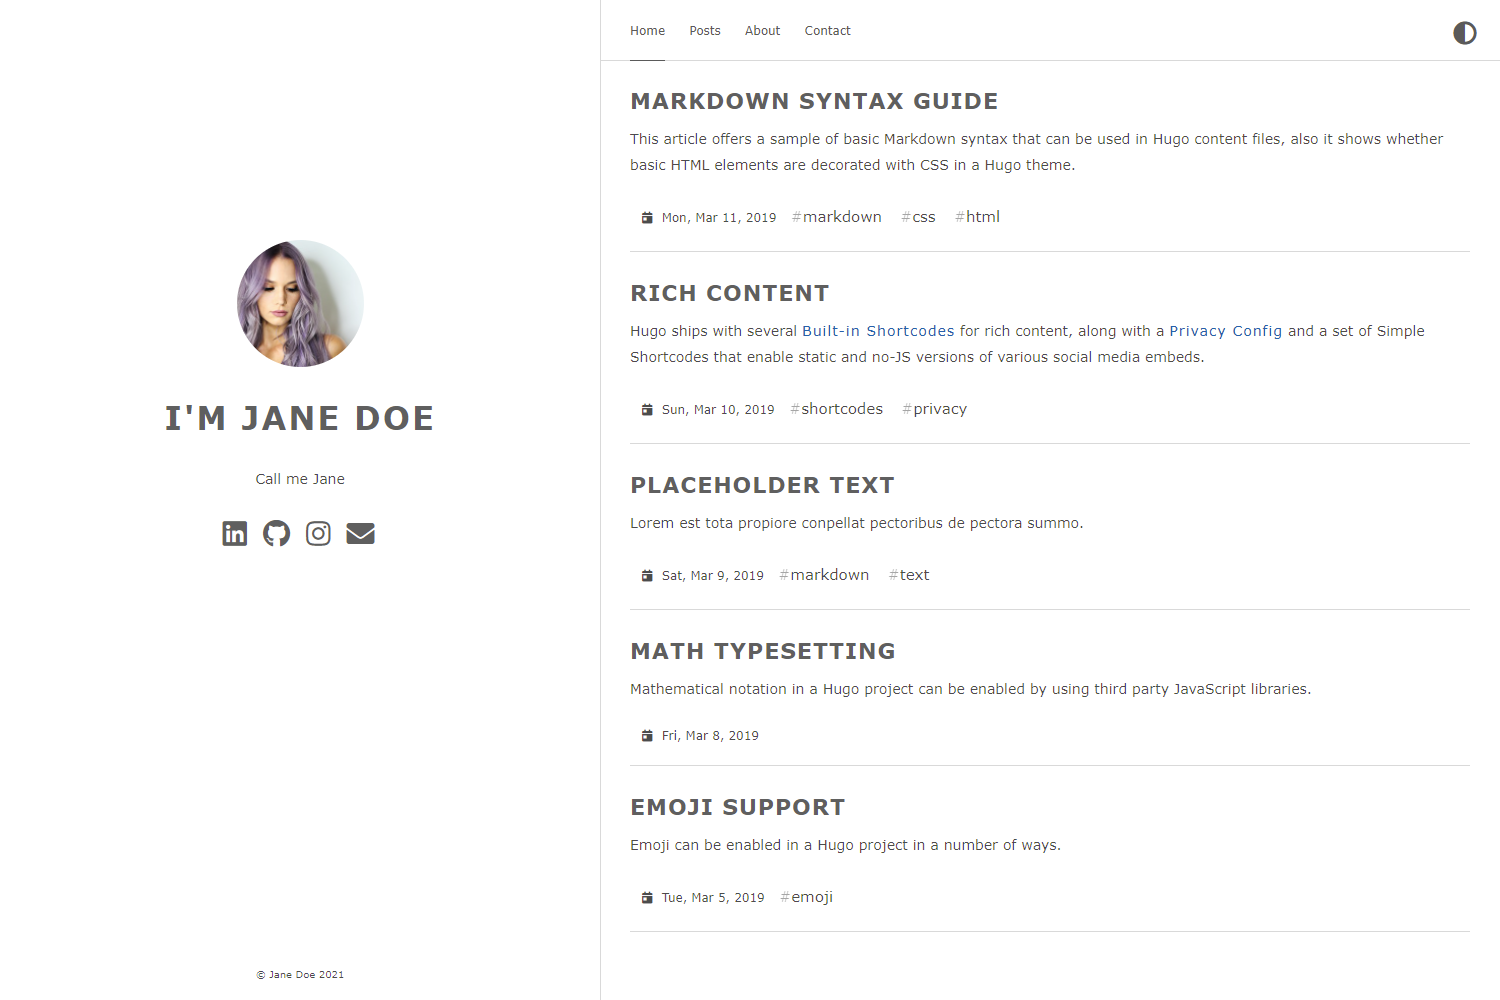
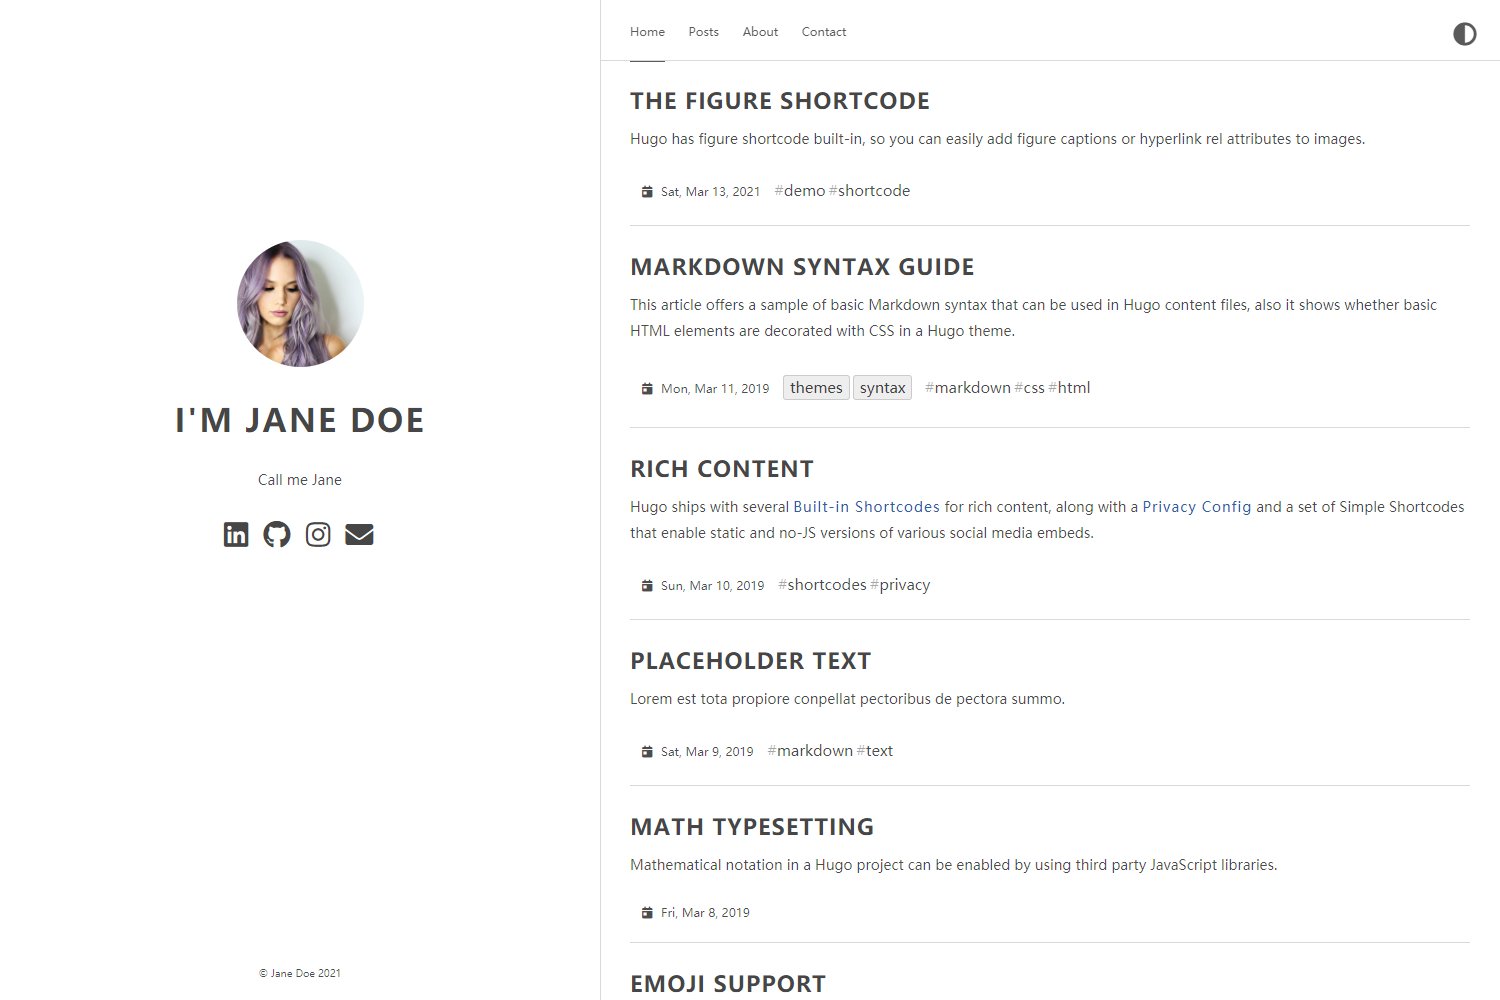
Improved Darkmode (#167)
* Slightly adjusted the color scheme
* Adjusted Link Colors
* Made the look more minimalistic
* Updated Screenshots
* Added event listener to change theme automatically

diff --git a/assets/js/anatole-theme-switcher.js b/assets/js/anatole-theme-switcher.js
@@ -8,51 +8,26 @@ function setTheme(style) {
     localStorage.setItem('theme', style);
 }
 
-// Check if a theme was set manually
-function getMode()  {
-    return localStorage.getItem('mode') ? localStorage.getItem('mode') : null;
-}
-
-function setMode(mode)  {
-    localStorage.setItem('mode', mode);
-}
-
 function init() {
     // initialize default value
     const theme = getTheme();
-    const mode = getMode();
 
     // check if a preferred color theme is set for users that have never been to our site
     const userPrefersDark = window.matchMedia && window.matchMedia('(prefers-color-scheme: dark)').matches;
-    const userPrefersLight = window.matchMedia && window.matchMedia('(prefers-color-scheme: light)').matches;
     if (theme === null) {
         if (userPrefersDark) {
             setTheme('dark');
-            setMode('auto');
-        } else if (userPrefersLight){
-            setTheme('light');
-            setMode('auto');
         } else if (!document.documentElement.getAttribute('data-theme')) {
             setTheme('light');
         } else {
             setTheme(document.documentElement.getAttribute('data-theme'));
         }
     } else {
-
-        if (mode === 'auto') {
-            if (userPrefersDark) {
-                document.documentElement.setAttribute('data-theme', 'dark');
-            } else if (userPrefersLight){
-                document.documentElement.setAttribute('data-theme', 'light');
-            } 
-        }
-        else {
-            // load a user set theme theme
-            if (theme === 'light') {
-                document.documentElement.setAttribute('data-theme', 'light');
-            } else {
-                document.documentElement.setAttribute('data-theme', 'dark');
-            }
+        // load a stored theme
+        if (theme === 'light') {
+            document.documentElement.setAttribute('data-theme', 'light');
+        } else {
+            document.documentElement.setAttribute('data-theme', 'dark');
         }
     }
 }
@@ -66,12 +41,15 @@ function switchTheme() {
     } else {
         setTheme('light');
     }
-    setMode('user');
 }
 
+// Manual Switch
 document.addEventListener('DOMContentLoaded', function () {
     const themeSwitcher = document.querySelector('.theme-switch');
     themeSwitcher.addEventListener('click', switchTheme, false);
 }, false);
+
+// Automatic Switching
+window.matchMedia('(prefers-color-scheme: dark)').addEventListener('change', switchTheme, false);
 
 init();

diff --git a/assets/css/style.css b/assets/css/style.css
@@ -3,7 +3,7 @@
 :root {
     --bg-color: #fff;
     --secondary-bg-color: #eeeeee;
-    --heading-color: #5f5f5f;
+    --heading-color: #464646;
     --body-color: rgba(0, 0, 0, 0.7);
     --post-color: rgba(0, 0, 0, 0.44);
     --border-color: rgba(0, 0, 0, 0.15);
@@ -14,17 +14,18 @@
     --tag-color: #424242;
     --blockquote-text-color: #858585;
     --blockquote-border-color: #dfe2e5;
+    --link-color: #0366d7;
     --thumbnail-height: 15em;
     scroll-padding-top: 100px;
 }
 
 html[data-theme='dark'] {
-    --bg-color: #292a2d;
-    --secondary-bg-color: #2c2d32;
-    --heading-color: rgb(169, 169, 179);
+    --bg-color: #010408;
+    --secondary-bg-color: rgb(56, 56, 56);;
+    --heading-color: #c9d1d9;
     --body-color: rgb(169, 169, 179);
     --post-color: rgba(0, 0, 0, 0.44);
-    --border-color: rgb(38, 38, 38);
+    --border-color: #30363d;
     --form-border-color: rgb(169, 169, 179);
     --form-button-hover-border-color: #fff;
     --pre-bg-color: rgb(33, 33, 45);
@@ -32,6 +33,7 @@ html[data-theme='dark'] {
     --tag-color: rgb(191, 191, 191);
     --blockquote-text-color: #808080;
     --blockquote-border-color: #424242;
+    --link-color: #58a6fe;
 }
 
 html {
@@ -41,7 +43,7 @@ html {
 
 body {
     color: var(--body-color);
-    font-family: 'Verdana', sans-serif;
+    font-family: 'PingHei', 'PingFang SC', Helvetica Neue, 'Work Sans', 'Hiragino Sans GB', 'Microsoft YaHei', SimSun, sans-serif;
     font-size: 15px;
     width: 100%;
     margin: 0 auto 30px auto;
@@ -56,6 +58,7 @@ p {
 
 a {
     text-decoration: none;
+    color: var(--link-color);
 }
 
 blockquote {
@@ -100,12 +103,11 @@ pre {
 a:link,
 a:visited {
     opacity: 1;
-    color: var(--tag-color);
 }
 
 a:hover,
 a:active {
-    color: #2660ab;
+    color: var(--link-color);
 }
 
 /*basic styles ends*/

diff --git a/assets/css/style.rtl.css b/assets/css/style.rtl.css
@@ -3,7 +3,7 @@
 :root {
     --bg-color: #fff;
     --secondary-bg-color: #eeeeee;
-    --heading-color: #5f5f5f;
+    --heading-color: #464646;
     --body-color: rgba(0, 0, 0, 0.7);
     --post-color: rgba(0, 0, 0, 0.44);
     --border-color: rgba(0, 0, 0, 0.15);
@@ -14,17 +14,18 @@
     --tag-color: #424242;
     --blockquote-text-color: #858585;
     --blockquote-border-color: #dfe2e5;
+    --link-color: #0366d7;
     --thumbnail-height: 15em;
     scroll-padding-top: 100px;
 }
 
 html[data-theme='dark'] {
-    --bg-color: #292a2d;
-    --secondary-bg-color: #2c2d32;
-    --heading-color: rgb(169, 169, 179);
+    --bg-color: #010408;
+    --secondary-bg-color: rgb(56, 56, 56);;
+    --heading-color: #c9d1d9;
     --body-color: rgb(169, 169, 179);
     --post-color: rgba(0, 0, 0, 0.44);
-    --border-color: rgb(38, 38, 38);
+    --border-color: #30363d;
     --form-border-color: rgb(169, 169, 179);
     --form-button-hover-border-color: #fff;
     --pre-bg-color: rgb(33, 33, 45);
@@ -32,6 +33,7 @@ html[data-theme='dark'] {
     --tag-color: rgb(191, 191, 191);
     --blockquote-text-color: #808080;
     --blockquote-border-color: #424242;
+    --link-color: #58a6fe;
 }
 
 html {
